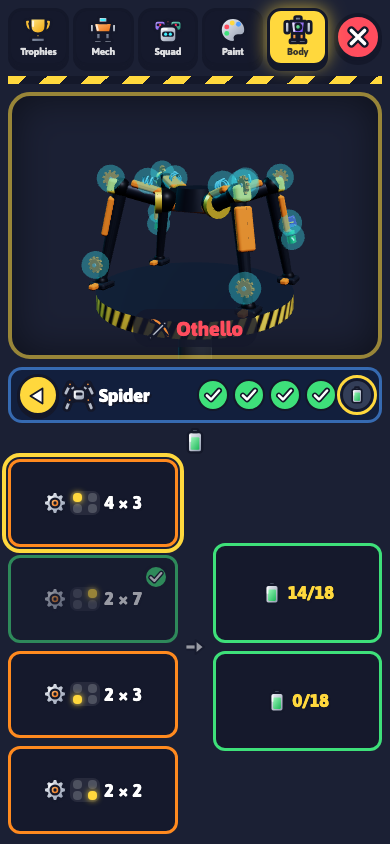
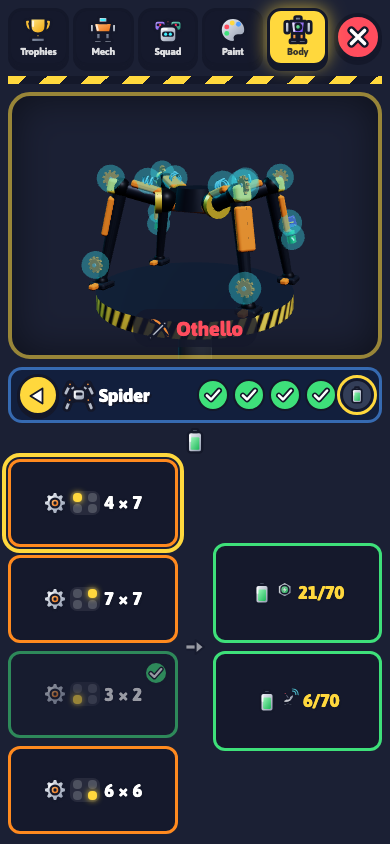
Robot Battle #102 hand-back: balance boards a size guess can't solve (Dad: tighten)
In math wiring the balance boards (Spider, Mk II) and the Brute's spread no longer
pin the heaviest motor. Any motor can be the pinned one, and which others join it
on battery 1 is drawn at random among every allowed way. Each battery then carries
a base load (the core and the radar; the Brute's gun and core) that makes the
halves equal. The base load is counted only in the meter's number, with a fixed
icon chip on each battery. So, given the facts on the board, the right motors are
a fair draw. Only the meter's gap, which is a fact's answer, says which one it is.

A set of facts and a pin is kept only if every allowed draw is the only way to
fill battery 1 and every half is at most 99 (4 motors) or 150 (6 motors). All n
facts come from the tracker. Colour wiring is unchanged.

diff --git a/robot-battle.html b/robot-battle.html
@@ -997,6 +997,7 @@
   .sq4.on { --hc: var(--yellow); } .sq4.ok { --hc: var(--green); }
   .ld { font: 900 24px 'Asap', sans-serif; color: var(--yellow); text-shadow: 2px 2px 0 var(--ink); white-space: nowrap; }
   .ldp { display: grid; grid-template-columns: repeat(3, 9px); gap: 3px; } .ldp i { width: 9px; height: 9px; border-radius: 50%; background: var(--yellow); }
+  .bbase { font-size: .7em; opacity: .85; margin-left: 2px; }   /* #102: a battery's base load, what else it powers */
   .ldp.meter { grid-template-columns: repeat(5, 9px); } .ldp.meter i { background: rgba(255,255,255,.18); border: 1px solid rgba(255,255,255,.35); } .ldp.meter i.on { background: var(--green); border-color: var(--green); }
   .bdone { flex: 1; display: flex; align-items: center; justify-content: center; gap: 12px; font-size: 64px; }
   .glift.sparkle { animation: liftSparkle .8s ease-in-out 3; }
@@ -5254,7 +5255,8 @@ const BUILD_JOBS = {
   // allowed, dealt only where there's exactly one way to share them with the heaviest pinned on battery 1 (counting which
   // motors, so two equal loads never swap), with at least one more on battery 1 and two on battery 2. Pinned and wanted by
   // motor, not by load.
-  // #102: in math wiring every motor's load is a fact's answer (BUILD_JOBS.balance.math), so each load is worked out.
+  // #102: in math wiring every motor's load is a fact's answer (BUILD_JOBS.balance.math), so each load is worked out. Any
+  // motor can be the pinned one, and each battery carries a base load too (a part it powers), shown only in its meter.
   balance: { rounds: 1,
     deal(mode, r, ctx) {
       const n = ctx?.step?.motors || 4;
@@ -5286,44 +5288,51 @@ const BUILD_JOBS = {
       const plugs = at.map((k, l) => ({ what: 'motor', leg: l, load: S.loads[k], want: k === 5 || (S.on1 >> k) & 1 ? 0 : 1, fact: null, col: null }));
       return { plugs, ports: [0, 1].map((k) => ({ what: 'battery', of: k, target: S.half })), links: at.map((k) => (k === 5 ? 0 : -1)) };
     },
-    // #102: math wiring's board for n motors (4 or 6): each motor's load is a fact's answer, all different. n - 1 facts come
-    // from the tracker (jobFacts); the last is one whose answer leaves exactly one way to share the loads with the heaviest
-    // pinned on battery 1, at least one more with it and two on battery 2 (for 4 motors that's a + d = b + c, the lightest
-    // joining the heaviest). It's a fact the child has open if one fits, else any 2–9 fact. If none fits, one of the
-    // tracker's facts is swapped for another and it tries again (then any 2–9 facts). Pinned and wanted by motor.
+    // #102: math wiring's board for n motors (4 or 6): each motor's load is a fact's answer, all different, all n facts from
+    // the tracker (jobFacts). Dad's call (#107, tighten): nothing on the board but the facts' answers may say which motors go
+    // with the pinned one, so a child who guesses sizes from the facts (4 × 9 looks big) does no better than chance:
+    //   - the pinned motor is any of them, not the heaviest;
+    //   - which others join it on battery 1 is picked at random: how many first (1 to n - 3, so battery 2 gets 2 or more),
+    //     then which, among every way that's allowed;
+    //   - each battery then gets a base load (what else it powers: the core on battery 1, the radar on battery 2; the
+    //     Brute's gun at the front and its core at the back) that makes the two halves equal. It's in the meter's number
+    //     only, so the meter shows what's on it now and the half (e.g. 39/60), and the gap is the answer to find.
+    // A set of facts and a pin is kept only if every allowed pick would be the only way to fill battery 1 (no other set of
+    // motors adds up to the same), and every pick's half is at most CAP (n: 99 for 4 motors, 150 for 6). So the pick
+    // stays a fair draw whatever the facts are: a set that would have to skip a pick is dealt again, never the pick.
+    // If no pin fits, one of the tracker's facts is swapped for another (up to 20 times), then any 2–9 facts.
     math(n) {
-      const prods = new Map(), open = Facts.rec ? [...Facts.open().values()].filter((f) => f.op === '×') : [];
-      for (let a = 2; a <= 9; a++) for (let b = a; b <= 9; b++) { const v = a * b; if (!prods.has(v)) prods.set(v, []); prods.get(v).push(makeFact('×', a, b)); }
-      const vals = [...new Set([...prods.keys(), ...open.map((f) => f.answer)])];
-      // the one way to share sorted loads L (the last, the heaviest, pinned on battery 1): its mask over the rest, or -1
-      const share = (L) => {
-        const tot = L.reduce((s, v) => s + v, 0), half = tot / 2, k = L.length - 1; if (tot % 2) return -1;
-        let ways = 0, sol = -1;
-        for (let m = 0; m < 1 << k; m++) if (L[k] + L.slice(0, k).reduce((s, v, i) => s + ((m >> i) & 1 ? v : 0), 0) === half) { ways++; sol = m; }
-        const on1 = sol < 0 ? 0 : L.slice(0, k).filter((_, i) => (sol >> i) & 1).length;
-        return ways === 1 && on1 >= 1 && k - on1 >= 2 ? sol : -1;
+      const CAP = n === 4 ? 99 : 150, pick = (l) => l[Math.floor(Math.random() * l.length)];
+      // the allowed picks for loads L with motor pin pinned, by how many join it: lists of motor indexes; null if one
+      // isn't the only way or is over CAP
+      const picks = (L, pin) => {
+        const c = L.map((_, i) => i).filter((i) => i !== pin), k = c.length, tot = L.reduce((s, v) => s + v, 0), seen = new Map(), by = [];
+        const sum = (m) => c.reduce((s, i, b) => s + ((m >> b) & 1 ? L[i] : 0), 0), size = (m) => c.filter((_, b) => (m >> b) & 1).length;
+        for (let m = 0; m < 1 << k; m++) { const s = sum(m); seen.set(s, (seen.get(s) || 0) + 1); }
+        for (let m = 1; m < 1 << k; m++) {
+          const z = size(m); if (z < 1 || k - z < 2) continue;
+          const s1 = L[pin] + sum(m); if (seen.get(sum(m)) > 1 || Math.max(s1, tot - s1) + 6 > CAP) return null;
+          (by[z] ||= []).push(c.filter((_, b) => (m >> b) & 1));
+        }
+        return by.filter(Boolean);
       };
-      const pick = (l) => l[Math.floor(Math.random() * l.length)];
-      const last = (fs) => {   // a value for the last load, and a fact for it
-        const have = new Set(fs.map((f) => f.answer)), fits = vals.filter((v) => !have.has(v) && share([...have, v].sort((x, y) => x - y)) >= 0);
-        if (!fits.length) return null;
-        const v = pick(fits), mine = open.filter((f) => f.answer === v), g = pick(mine.length ? mine : prods.get(v));
-        return { op: '×', a: g.a, b: g.b, key: g.key, answer: g.answer, flip: Math.random() < 0.5 };
-      };
-      let fs = jobFacts(n - 1), f = last(fs);
-      for (let t = 0; !f && t < 40; t++) { fs.splice(Math.floor(Math.random() * fs.length), 1); fs.push(...jobFacts(1, fs.map((q) => q.answer))); f = last(fs); }
-      for (let t = 0; !f && t < 1000; t++) {   // nothing fits the tracker's facts: any 2–9 facts
-        const any = shuffle([...prods.keys()]).slice(0, n - 1).map((v) => { const g = pick(prods.get(v)); return { op: '×', a: g.a, b: g.b, key: g.key, answer: g.answer, flip: Math.random() < 0.5 }; });
-        f = last(any); if (f) fs = any;
+      const fit = (fs) => { const L = fs.map((f) => f.answer); for (const pin of shuffle(L.map((_, i) => i))) { const P = picks(L, pin); if (P) return { pin, P }; } return null; };
+      let fs = jobFacts(n), got = fit(fs);
+      for (let t = 0; !got && t < 20; t++) { fs.splice(Math.floor(Math.random() * fs.length), 1); fs.push(...jobFacts(1, fs.map((q) => q.answer))); got = fit(fs); }
+      while (!got) {   // nothing fits the tracker's facts: any 2–9 facts, all different answers
+        const any = new Map(); for (let a = 2; a <= 9; a++) for (let b = a; b <= 9; b++) any.set(a * b, makeFact('×', a, b));
+        fs = shuffle([...any.values()]).slice(0, n).map((g) => ({ op: '×', a: g.a, b: g.b, key: g.key, answer: g.answer, flip: Math.random() < 0.5 })); got = fit(fs);
       }
-      const S = [...fs, f].sort((x, y) => x.answer - y.answer), L = S.map((q) => q.answer), on1 = share(L), half = L.reduce((s, v) => s + v, 0) / 2;
-      const at = shuffle(L.map((_, k) => k));   // at[l] = which of the sorted loads leg l's motor draws
-      const plugs = at.map((k, l) => ({ what: 'motor', leg: l, load: L[k], want: k === n - 1 || (on1 >> k) & 1 ? 0 : 1, fact: S[k], col: null }));
-      return { plugs, ports: [0, 1].map((k) => ({ what: 'battery', of: k, target: half })), links: at.map((k) => (k === n - 1 ? 0 : -1)) };
+      fs = fs.slice(); const order = shuffle(fs.map((_, k) => k)), on1 = pick(pick(got.P)), L = fs.map((f) => f.answer), tot = L.reduce((s, v) => s + v, 0);
+      const s1 = L[got.pin] + on1.reduce((s, i) => s + L[i], 0), s2 = tot - s1, lo = 1 + Math.floor(Math.random() * 6);
+      const base = s1 < s2 ? [lo + s2 - s1, lo] : [lo, lo + s1 - s2], half = s1 + base[0];
+      // order[l] = which fact leg l's motor draws
+      const plugs = order.map((k, l) => ({ what: 'motor', leg: l, load: L[k], want: k === got.pin || on1.includes(k) ? 0 : 1, fact: fs[k], col: null }));
+      return { plugs, ports: [0, 1].map((k) => ({ what: 'battery', of: k, target: half, base: base[k] })), links: order.map((k) => (k === got.pin ? 0 : -1)) };
     },
     miss: (p, q, Bd, j) => (BUILD_JOBS.balance.sum(Bd, j) + p.load > q.target ? 'over' : 'uneven'),
     wrong: (Bd) => { const i = Bd.plugs.findIndex((p, k) => Bd.links[k] < 0 && p.want === 1); return i >= 0 ? [i, 0] : null; },   // (a middle one on battery 1: over)
-    sum: (Bd, j) => Bd.plugs.reduce((s, p, k) => s + (Bd.links[k] === j ? p.load : 0), 0),
+    sum: (Bd, j) => (Bd.ports[j]?.base ?? 0) + Bd.plugs.reduce((s, p, k) => s + (Bd.links[k] === j ? p.load : 0), 0),   // (#102: and its base load, in math)
     ideaPort: (q, j, Bd) => ({ target: q.target, load: BUILD_JOBS.balance.sum(Bd, j) }) },
   // #42 Long barrels: line up the sights. Three scopes, each sighting along a line at its height (1–3); the target is at one
   // height. The right scope is the one on the target's line, so the barrel and the scope point along one line to it.
@@ -5358,7 +5367,8 @@ const BUILD_JOBS = {
     idea: (p) => ({ weight: p.stiff }), ideaPort: (q) => ({ lean: q.height }) },
   // #42 Brute: spread the armour's weight. Four plates' weights shared between the front and the back so each end carries
   // half and the centre of mass sits over the legs: the balance job's board, with plates for motors and the ends for
-  // batteries (the heaviest is on the front already)
+  // batteries (the heaviest is on the front already; #102, in math wiring any plate is, and the front carries the gun and
+  // the back the core, as the batteries carry the core and the radar)
   spread: { rounds: 1,
     deal(mode) { const Bd = BUILD_JOBS.balance.deal(mode, 0, {}); for (const p of Bd.plugs) { p.what = 'plate'; p.plate = p.leg; delete p.leg; } for (const q of Bd.ports) q.what = 'end'; return Bd; },
     miss: (p, q, Bd, j) => BUILD_JOBS.balance.miss(p, q, Bd, j), wrong: (Bd) => BUILD_JOBS.balance.wrong(Bd),
@@ -9994,7 +10004,11 @@ const Garage = {
       if (q.what === 'battery' || q.what === 'end') {   // (#42: or an end of the Brute, front or back, carrying its plates' weight)
         const sum = BUILD_JOBS.balance.sum(Bd, j), full = sum === q.target, meter = M ? `<b class="ld">${sum}/${q.target}</b>` : `<span class="ldp meter">${Array.from({ length: q.target }, (_, k) => `<i class="${k < sum ? 'on' : ''}"></i>`).join('')}</span>`;
         const end = q.what === 'end', what = end ? (j ? 'the back' : 'the front') : `battery ${j + 1}`;
-        return `<button class="bport batt${full ? ' in' : ''}${c}" data-port="${j}" data-sum="${sum}" data-target="${q.target}" style="--pc:${end ? PARTS.armour.hex : PARTS.battery.hex}" aria-label="${what}: ${sum} of ${q.target}"><span class="bpf">${icon(end ? (j ? 'down' : 'up') : 'battery')}</span>${meter}</button>`;
+        // (#102, math: the part it carries besides the motors / plates, its base load, counted in the meter; the same part
+        // on that battery or end every time)
+        const [bic, bname] = end ? (j ? ['core', 'the core'] : ['gun', 'the gun']) : j ? ['radar', 'the radar'] : ['core', 'the core'];
+        const based = q.base != null, also = based ? `, ${bname} on it too` : '', chip = based ? `<span class="bbase">${icon(bic, { label: bname })}</span>` : '';
+        return `<button class="bport batt${full ? ' in' : ''}${c}" data-port="${j}" data-sum="${sum}" data-target="${q.target}" style="--pc:${end ? PARTS.armour.hex : PARTS.battery.hex}" aria-label="${what}: ${sum} of ${q.target}${also}"><span class="bpf">${icon(end ? (j ? 'down' : 'up') : 'battery')}${chip}</span>${meter}</button>`;
       }
       const [ic, hex, name] = q.what === 'controller' ? ['brain', '#ff7ad9', 'controller socket'] : q.what === 'pump' ? ['power', PARTS.wiring.hex, 'pump socket'] : ['motor', PARTS.motor.hex, 'motor'];
       return `<button class="bport${linked ? ' in' : ''}${c}" data-port="${j}" style="--pc:${hex}" aria-label="${name} ${j + 1}"><span class="bpf">${icon(ic)}</span>${tag}</button>`;
